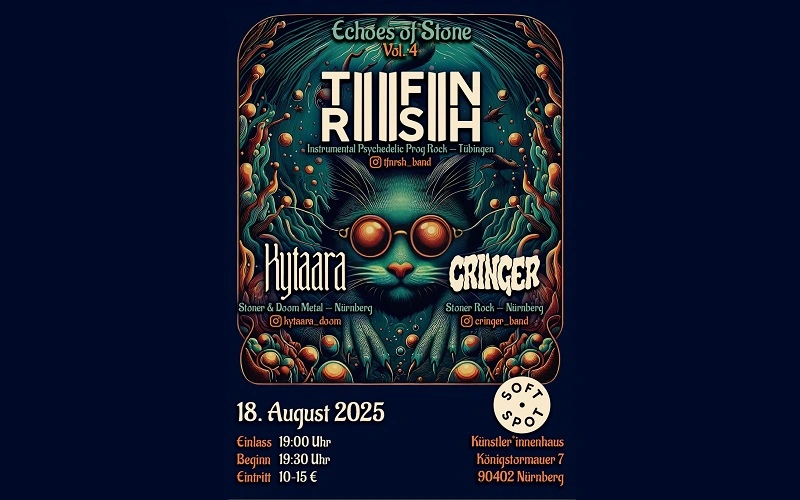
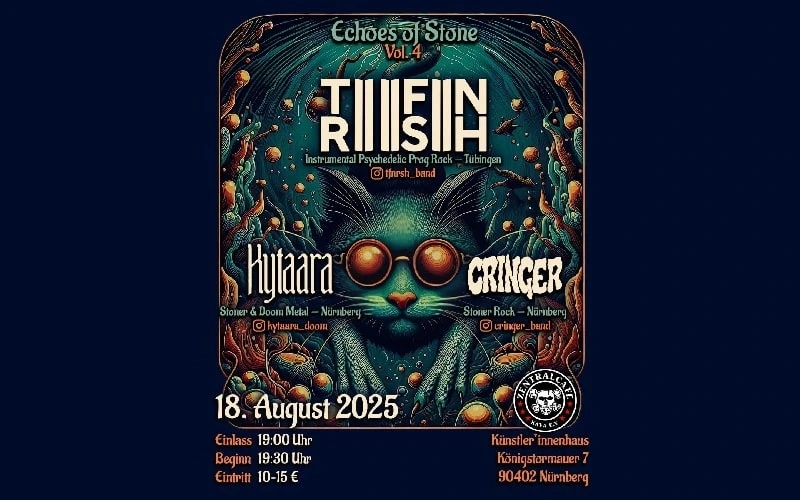
corrected live 6 veranstalter

Changed region(s): [[0.25, 0.0, 0.75, 1.0]]

diff --git a/content/live/006_EchoesOfKytaara.md b/content/live/006_EchoesOfKytaara.md
@@ -2,8 +2,8 @@
 title: "Echoes of Doom x Kytaara"
 date: "2025-08-18"
 publishdate: "2025-06-03"
-description: "Echoes of Doom mit Kytaara im Soft Spot"
-tags: ["nürnberg", "Soft Spot", "doom", "Echoes of Doom"]
+description: "Echoes of Doom mit Kytaara im Zentralcafe"
+tags: ["nürnberg", "zentralcafe", "doom", "echoes of doom", "Kaya e.V."]
 categories: ["live"]
 ShowRelated: false
 showToc: false
@@ -17,13 +17,13 @@ ShowBreadCrumbs: false
 [Levitain](https://levitain.bandcamp.com/album/demo)  
 
 **Location**  
-[Soft Spot im Künstler*innenhaus](https://www.instagram.com/softspotnbg/?hl=de), Königstormauer 7, 90402 Nürnberg  
+[Zentralcafe des Kaya e.V. im Künstler*innenhaus](https://www.zentralcafe.com/), Königstormauer 7, 90402 Nürnberg  
 
 **Datum**  
 18.08.2025 | Einlass: 19:00 | Beginn: 19:30
 
 **Bands**  
-[TFNRSH](https://www.tfnrsh.de/) &  
+[Tiefenrausch](https://www.tfnrsh.de/) &  
 Cringer (Stoner Rock aus Nürnberg) &  
 Kytaara  
 
